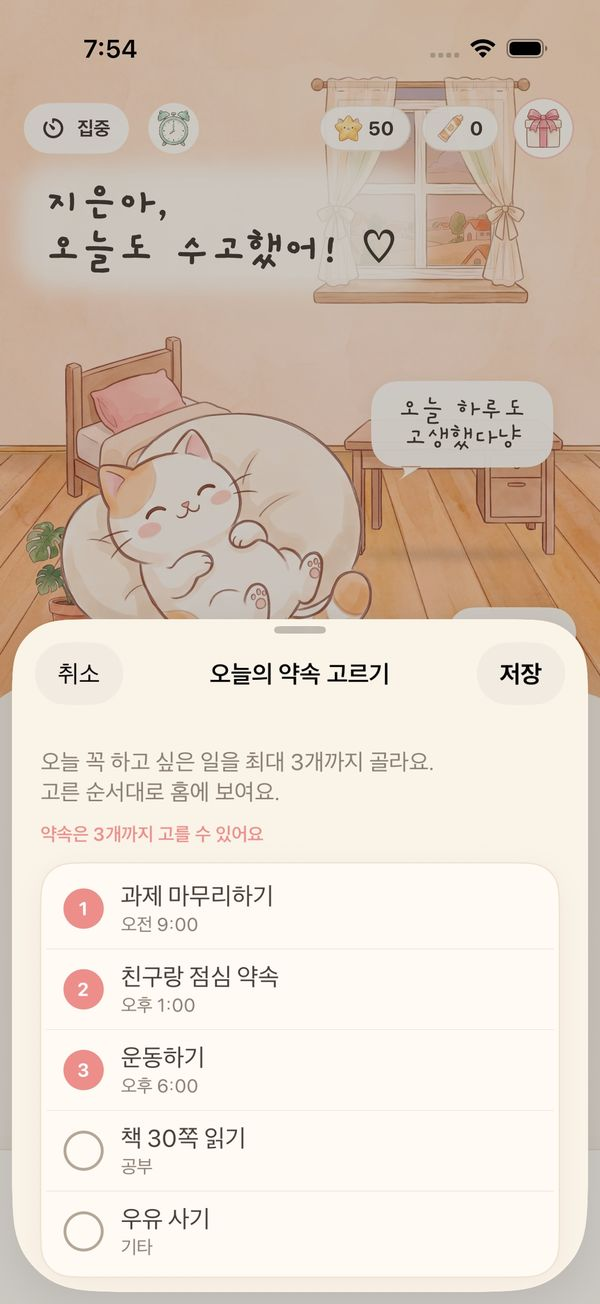
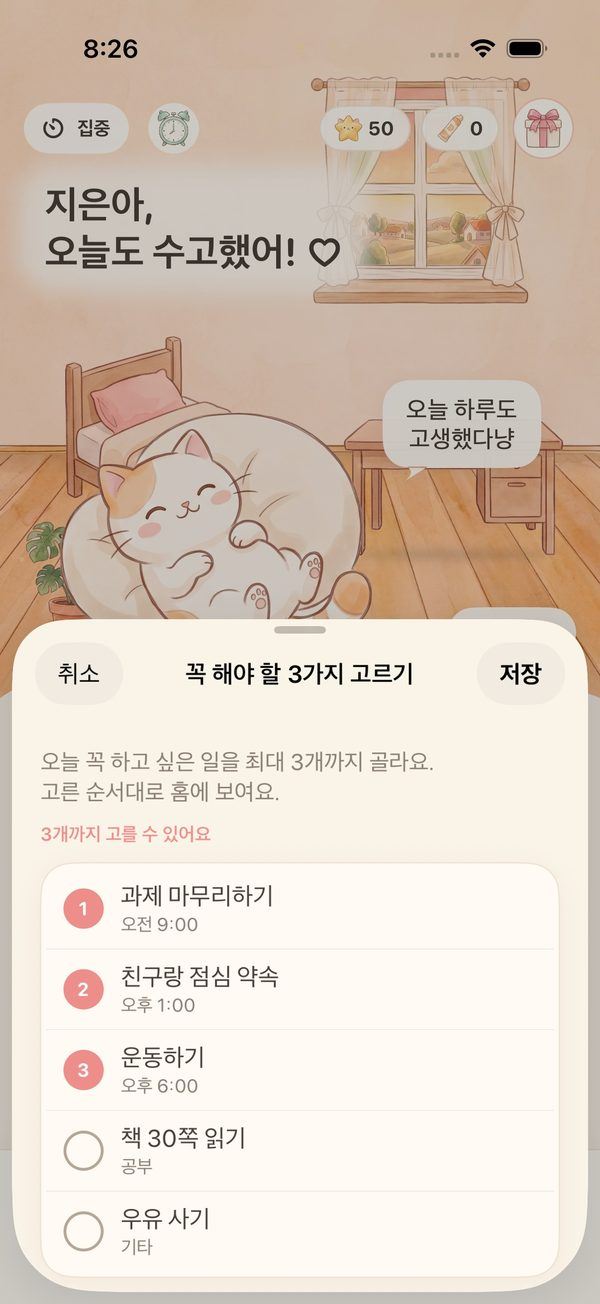
홈페이지: '오늘의 약속' → '꼭 해야 할 3가지', 고딕 서체(Noto Sans KR), 새 앱 화면·깔끔한 위젯 그림, 살아 움직이는 고양이 소개, 고객지원 FAQ(알람이 진동만 올 때·집중 소리)
Claude-Session: https://claude.ai/code/session_01QzebrivZ857hv6vvxdSKxr

diff --git a/index.html b/index.html
@@ -4,10 +4,10 @@
 <meta name="viewport" content="width=device-width, initial-scale=1, viewport-fit=cover">
 <title>틈냥</title>
 <meta name="claude:viewport-fit-sides" content="cover">
-<meta name="description" content="오늘 꼭 지킬 약속 세 가지를 고르면, 방 안의 고양이가 하루 내내 응원해요. 해낸 만큼 냥별이 쌓이고 방이 예뻐지는 일정 앱 틈냥.">
+<meta name="description" content="오늘 꼭 해야 할 3가지를 고르면, 방 안의 고양이가 하루 내내 응원해요. 해낸 만큼 냥별이 쌓이고 방이 예뻐지는 일정 앱 틈냥.">
 <link rel="preconnect" href="https://fonts.googleapis.com">
 <link rel="preconnect" href="https://fonts.gstatic.com" crossorigin>
-<link rel="stylesheet" href="https://fonts.googleapis.com/css2?family=Gaegu:wght@400;700&family=Gowun+Dodum&display=swap">
+<link rel="stylesheet" href="https://fonts.googleapis.com/css2?family=Noto+Sans+KR:wght@400;500;700;800&display=swap">
 <style>
 /* 레이아웃: 고양이 방의 하루(아침 → 낮 → 저녁 → 밤)를 따라 내려가는 세로 이야기. 시간대마다 띠의 빛깔이 바뀐다. */
 :root {
@@ -26,8 +26,8 @@
   --night-ink: #f6eedf;
   --night-soft: #c9c0dd;
   --shadow: rgba(140, 110, 85, 0.16);
-  --display: "Gaegu", "Nanum Pen Script", "Apple SD Gothic Neo", "Noto Sans KR", cursive;
-  --body: "Gowun Dodum", "Apple SD Gothic Neo", "Noto Sans KR", "Malgun Gothic", system-ui, sans-serif;
+  --display: "Noto Sans KR", "Apple SD Gothic Neo", "Malgun Gothic", system-ui, sans-serif;
+  --body: "Noto Sans KR", "Apple SD Gothic Neo", "Malgun Gothic", system-ui, sans-serif;
 }
 @media (prefers-color-scheme: dark) {
   :root:not([data-theme="light"]) {
@@ -80,7 +80,7 @@ a { color: inherit; }
   border-bottom: 1px solid var(--line);
 }
 .top .wrap { display: flex; align-items: center; justify-content: space-between; gap: 16px; padding-block: 10px; }
-.brand { display: flex; align-items: center; gap: 8px; font-family: var(--display); font-weight: 700; font-size: 30px; line-height: 1; text-decoration: none; }
+.brand { display: flex; align-items: center; gap: 8px; font-family: var(--display); font-weight: 800; font-size: 25px; letter-spacing: -0.02em; line-height: 1; text-decoration: none; }
 .brand img { width: 34px; height: 34px; object-fit: contain; }
 .top nav { display: flex; gap: 18px; font-size: 15px; color: var(--ink-soft); }
 .top nav a { text-decoration: none; }
@@ -92,8 +92,8 @@ a { color: inherit; }
 .hero .wrap { display: grid; grid-template-columns: minmax(0, 1.1fr) minmax(0, 0.9fr); gap: 40px; align-items: center; padding-block: 56px 72px; }
 @media (max-width: 820px) { .hero .wrap { grid-template-columns: 1fr; padding-block: 36px 56px; } }
 .eyebrow { font-size: 15px; letter-spacing: 0.04em; color: var(--ink-soft); margin: 0 0 10px; }
-h1, h2, h3 { font-family: var(--display); font-weight: 700; line-height: 1.15; text-wrap: balance; margin: 0; }
-h1 { font-size: clamp(44px, 7vw, 72px); }
+h1, h2, h3 { font-family: var(--display); font-weight: 700; letter-spacing: -0.02em; line-height: 1.25; text-wrap: balance; margin: 0; }
+h1 { font-size: clamp(34px, 5.6vw, 56px); font-weight: 800; }
 h1 .soft { color: var(--coral); }
 .lede { font-size: 18px; max-width: 34em; margin: 18px 0 26px; color: var(--ink); }
 .stores { display: flex; flex-wrap: wrap; gap: 12px; align-items: center; }
@@ -126,7 +126,7 @@ h1 .soft { color: var(--coral); }
 
 /* 하루 흐름 */
 .day-intro .wrap { padding-block: 56px 8px; display: grid; gap: 10px; }
-.day-intro h2 { font-size: clamp(34px, 5vw, 48px); }
+.day-intro h2 { font-size: clamp(27px, 4vw, 38px); }
 .day-intro p { margin: 0; color: var(--ink-soft); max-width: 36em; }
 
 .slot { --band: var(--noon); background: var(--band); }
@@ -147,12 +147,12 @@ h1 .soft { color: var(--coral); }
 }
 .slot.night .clock { background: rgba(255, 255, 255, 0.1); color: var(--night-ink); }
 .clock img { width: 20px; height: 20px; object-fit: contain; }
-.copy h3 { font-size: clamp(30px, 4.2vw, 42px); margin-bottom: 14px; }
+.copy h3 { font-size: clamp(23px, 3.3vw, 32px); margin-bottom: 14px; }
 .copy p { margin: 0 0 14px; max-width: 32em; }
 .slot.night .copy p { color: var(--night-soft); }
 .facts { list-style: none; padding: 0; margin: 18px 0 0; display: grid; gap: 10px; }
 .facts li { display: flex; gap: 10px; align-items: baseline; }
-.facts b { font-family: var(--display); font-size: 24px; line-height: 1; min-width: 3.2em; color: var(--coral); font-variant-numeric: tabular-nums; }
+.facts b { font-family: var(--display); font-weight: 800; font-size: 21px; line-height: 1; min-width: 3.2em; color: var(--coral); font-variant-numeric: tabular-nums; }
 .slot.night .facts b { color: #ffd27a; }
 .shot { justify-self: center; width: min(280px, 76vw); border-radius: 34px; padding: 8px; background: #2d2622; box-shadow: 0 24px 48px -18px var(--shadow); }
 .shot img { width: 100%; height: auto; border-radius: 27px; }
@@ -166,7 +166,7 @@ h1 .soft { color: var(--coral); }
 .widgets { background: linear-gradient(160deg, #6f7fb0 0%, #8f8cc0 45%, #c9a6c6 100%); color: #fff; }
 .widgets .wrap { padding-block: 64px; display: grid; grid-template-columns: minmax(0, 0.9fr) minmax(0, 1.1fr); gap: 36px; align-items: center; }
 @media (max-width: 820px) { .widgets .wrap { grid-template-columns: 1fr; } }
-.widgets h2 { font-size: clamp(32px, 4.6vw, 44px); margin-bottom: 14px; }
+.widgets h2 { font-size: clamp(25px, 3.7vw, 35px); margin-bottom: 14px; }
 .widgets .copy p { color: rgba(255, 255, 255, 0.92); max-width: 30em; margin: 0; }
 .widget-row { display: flex; flex-wrap: wrap; gap: 18px; justify-content: center; align-items: center; }
 /* 실제 위젯 화면(앱 단위 테스트가 그린 캡처) */
@@ -192,33 +192,33 @@ h1 .soft { color: var(--coral); }
 
 /* 테마 */
 .themes .wrap { padding-block: 72px 40px; display: grid; gap: 14px; }
-.themes h2 { font-size: clamp(32px, 4.6vw, 44px); }
+.themes h2 { font-size: clamp(25px, 3.7vw, 35px); }
 .themes .wrap > p { margin: 0 0 8px; color: var(--ink-soft); max-width: 40em; }
 .theme-grid { display: grid; grid-template-columns: repeat(3, minmax(0, 1fr)); gap: 16px; }
 @media (max-width: 760px) { .theme-grid { grid-template-columns: repeat(2, minmax(0, 1fr)); gap: 12px; } }
 .theme-grid figure { position: relative; margin: 0; background: var(--card); border: 1px solid var(--line); border-radius: 22px; padding: 8px; }
 .theme-grid img { width: 100%; height: auto; border-radius: 16px; aspect-ratio: 480 / 414; object-fit: cover; }
 .theme-grid figcaption { display: flex; justify-content: space-between; align-items: center; gap: 8px; padding: 8px 6px 2px; }
-.theme-grid figcaption b { font-family: var(--display); font-size: 22px; font-weight: 700; line-height: 1.1; }
+.theme-grid figcaption b { font-family: var(--display); font-size: 18px; font-weight: 700; line-height: 1.2; }
 .theme-grid figcaption span { font-size: 12px; font-weight: 700; padding: 2px 9px; border-radius: 999px; background: #6e5cc2; color: #fff; flex: none; }
 .theme-grid figure:first-child figcaption span { background: var(--sage); color: var(--ink); }
 /* 휴대폰: 칸이 좁아 이름 옆 표시가 들쭉날쭉 줄바꿈되므로, 표시는 그림 왼쪽 위에 얹고 이름만 한 줄로 */
 @media (max-width: 760px) {
   .theme-grid figcaption { display: block; padding: 8px 4px 2px; line-height: 1.15; text-wrap: balance; }
-  .theme-grid figcaption b { font-size: clamp(16px, 4.9vw, 19px); }
+  .theme-grid figcaption b { font-size: clamp(14px, 4.1vw, 16px); }
   .theme-grid figcaption span { position: absolute; top: 15px; left: 15px; font-size: 11px; box-shadow: 0 1px 6px rgba(40, 30, 20, 0.2); }
 }
 
 /* 고양이 */
 .cats .wrap { padding-block: 72px; display: grid; gap: 28px; }
-.cats h2, .plus h2, .faq h2 { font-size: clamp(34px, 5vw, 48px); }
+.cats h2, .plus h2, .faq h2 { font-size: clamp(27px, 4vw, 38px); }
 .cat-grid { display: grid; grid-template-columns: repeat(3, minmax(0, 1fr)); gap: 18px; }
 .cat {
   display: grid; grid-template-columns: 96px minmax(0, 1fr); gap: 14px; align-items: center;
   padding: 16px; border-radius: 24px; background: var(--card); border: 1px solid var(--line);
 }
 .cat img { width: 96px; height: 96px; object-fit: contain; }
-.cat h3 { font-size: 30px; }
+.cat h3 { font-size: 23px; }
 .cat p { margin: 2px 0 0; color: var(--ink-soft); font-size: 15px; }
 .cat .badge { display: inline-block; vertical-align: middle; font: 800 11px/1 system-ui, sans-serif; letter-spacing: .04em;
   color: #fff; background: #6e5cc2; border-radius: 999px; padding: 4px 7px; }
@@ -228,7 +228,7 @@ h1 .soft { color: var(--coral); }
   .cat-grid { grid-template-columns: repeat(3, minmax(0, 1fr)); gap: 10px; }
   .cat { grid-template-columns: 1fr; justify-items: center; align-content: start; text-align: center; gap: 4px; padding: 12px 6px; border-radius: 20px; }
   .cat img { width: 68px; height: 68px; }
-  .cat h3 { font-size: 22px; }
+  .cat h3 { font-size: 17px; }
   .cat p { font-size: 12px; line-height: 1.35; }
   .cat .badge { display: block; margin: 2px auto 0; width: max-content; }
 }
@@ -249,13 +249,13 @@ h1 .soft { color: var(--coral); }
 .faq details { border-bottom: 1px solid var(--line); padding-block: 14px; }
 .faq summary { cursor: pointer; font-size: 18px; list-style: none; display: flex; justify-content: space-between; gap: 16px; }
 .faq summary::-webkit-details-marker { display: none; }
-.faq summary::after { content: "+"; font-family: var(--display); font-size: 26px; line-height: 1; color: var(--coral); }
+.faq summary::after { content: "+"; font-family: var(--display); font-size: 24px; line-height: 1; color: var(--coral); }
 .faq details[open] summary::after { content: "−"; }
 .faq details p { margin: 10px 0 0; color: var(--ink-soft); }
 
 footer { border-top: 1px solid var(--line); }
 footer .wrap { padding-block: 28px 40px; display: flex; flex-wrap: wrap; justify-content: space-between; gap: 12px; color: var(--ink-soft); font-size: 14px; }
-footer .brand { font-size: 24px; color: var(--ink); }
+footer .brand { font-size: 21px; color: var(--ink); }
 footer .biz { flex-basis: 100%; margin: 0; font-size: 12.5px; line-height: 1.6; color: var(--ink-soft); }
 </style>
 
@@ -277,8 +277,8 @@ footer .biz { flex-basis: 100%; margin: 0; font-size: 12.5px; line-height: 1.6; 
     <div class="wrap">
       <div>
         <p class="eyebrow">고양이와 함께 쓰는 하루 계획 앱</p>
-        <h1>오늘의 약속 세 가지,<br><span class="soft">고양이랑</span> 같이 지켜요.</h1>
-        <p class="lede">할 일은 몇 개든 적어도 괜찮아요. 그중 꼭 지킬 세 가지만 고르면, 방 안의 고양이가 하루 내내 곁에서 응원해요. 해낼 때마다 냥별이 쌓이고, 고양이 방이 조금씩 예뻐져요.</p>
+        <h1>꼭 해야 할 3가지,<br><span class="soft">고양이랑</span> 같이 해요.</h1>
+        <p class="lede">할 일은 몇 개든 적어도 괜찮아요. 그중 꼭 해야 할 3가지만 고르면, 방 안의 고양이가 하루 내내 곁에서 응원해요. 숨 쉬고 그루밍하고, 톡 건드리면 애교도 부려요. 해낼 때마다 냥별이 쌓이고, 고양이 방이 조금씩 예뻐져요.</p>
         <div class="stores">
           <span class="store" role="note">
             <svg viewBox="0 0 24 24" aria-hidden="true"><path fill="currentColor" d="M16.4 12.6c0-2.3 1.9-3.4 2-3.5-1.1-1.6-2.8-1.8-3.4-1.8-1.4-.1-2.8.9-3.5.9-.7 0-1.9-.9-3.1-.8-1.6 0-3.1.9-3.9 2.4-1.7 2.9-.4 7.2 1.2 9.5.8 1.1 1.7 2.4 2.9 2.4 1.2 0 1.6-.8 3-.8s1.8.8 3 .7c1.3 0 2.1-1.1 2.8-2.3.9-1.3 1.3-2.6 1.3-2.7-.1 0-2.3-.9-2.3-3.9zM14.1 5.8c.6-.8 1.1-1.9 1-3-.9 0-2.1.6-2.8 1.4-.6.7-1.1 1.8-1 2.9 1.1.1 2.1-.5 2.8-1.3z"/></svg>
@@ -288,7 +288,7 @@ footer .biz { flex-basis: 100%; margin: 0; font-size: 12.5px; line-height: 1.6; 
         </div>
       </div>
       <div class="phone-stage">
-        <div class="phone"><img src="assets/screen_home.jpg" alt="틈냥 홈 화면: 저녁빛 방에서 쿠션에 기대 쉬는 고양이, '지은아, 오늘도 수고했어!' 인사말, 오늘의 약속 세 가지 목록" width="600" height="1304"></div>
+        <div class="phone"><img src="assets/screen_home.jpg" alt="틈냥 홈 화면: 저녁빛 방에서 쿠션에 기대 쉬는 고양이, '지은아, 오늘도 수고했어!' 인사말, 꼭 해야 할 3가지 목록" width="600" height="1304"></div>
         <img class="sticker wave" src="assets/cat_mochi_wave.png" alt="">
         <img class="sticker star" src="assets/icon_star.png" alt="">
         <img class="sticker churu" src="assets/icon_churu.png" alt="">
@@ -308,7 +308,7 @@ footer .biz { flex-basis: 100%; margin: 0; font-size: 12.5px; line-height: 1.6; 
       <div class="copy">
         <span class="clock"><img src="assets/icon_sun.png" alt="">오전 7:00 · 아침</span>
         <h3 id="t-alarm">고양이 알람이 아침을 깨워요</h3>
-        <p>평일 기상, 출근 준비처럼 요일마다 반복하는 알람을 만들어요. iOS 26부터는 무음·집중 모드에서도 시계 앱처럼 울리는 시스템 알람으로, 그 이전 버전에서는 알림으로 알려 드려요.</p>
+        <p>평일 기상, 출근 준비처럼 요일마다 반복하는 알람을 만들어요. iOS 26부터는 무음·집중 모드에서도 시계 앱처럼 울리는 시스템 알람으로, 그 이전 버전에서는 알림으로 알려 드리고, 놓치지 않게 1분 간격으로 네 번 더 알려요.</p>
         <p>오르골·방울·아침 햇살·별빛 알람음은 고르기 전에 미리 들어 볼 수 있어요. 울릴 때 '다시 알림'을 누르면 5·10·15분 뒤에 다시 깨워요(iOS 26 이상).</p>
       </div>
       <div class="shot"><img src="assets/screen_alarm.jpg" alt="알람 목록 화면: 오전 7시 기상, 8시 30분 출근 준비, 낮 12시 점심, 오후 6시 운동 알람과 켜기 스위치" width="600" height="1304" loading="lazy"></div>
@@ -319,11 +319,11 @@ footer .biz { flex-basis: 100%; margin: 0; font-size: 12.5px; line-height: 1.6; 
     <div class="wrap">
       <div class="copy">
         <span class="clock"><img src="assets/icon_sun.png" alt="">오전 8:10 · 아침</span>
-        <h3 id="t-morning">고양이가 인사하면, 약속 세 가지를 골라요</h3>
-        <p>오늘 적은 일정 가운데 꼭 지킬 세 가지를 고르면 홈 맨 위에 올라와요. 고르지 않은 날에는 시간 순서대로 알아서 추천해 두고, 첫 일을 끝내는 순간 그대로 확정해요.</p>
-        <p>이름을 부르는 인사말과 말풍선은 시간대마다 달라요. 고양이를 톡 건드리면 통통 튀며 반응해요.</p>
+        <h3 id="t-morning">고양이가 인사하면, 꼭 해야 할 3가지를 골라요</h3>
+        <p>오늘 적은 일정 가운데 꼭 해야 할 세 가지를 고르면 홈 맨 위에 올라와요. 고르지 않은 날에는 시간 순서대로 알아서 추천해 두고, 첫 일을 끝내는 순간 그대로 확정해요.</p>
+        <p>이름을 부르는 인사말과 말풍선은 시간대마다 달라요. 고양이를 톡 건드리면 애교를 부리고, 너무 자주 건드리면 깜짝 놀라 도망갔다가 슬그머니 돌아와요.</p>
       </div>
-      <div class="shot"><img src="assets/screen_promises.jpg" alt="오늘의 약속 고르기 화면: 일정 목록에서 최대 세 개를 순서대로 고르는 모습" width="600" height="1304" loading="lazy"></div>
+      <div class="shot"><img src="assets/screen_promises.jpg" alt="꼭 해야 할 3가지 고르기 화면: 일정 목록에서 최대 세 개를 순서대로 고르는 모습" width="600" height="1304" loading="lazy"></div>
     </div>
   </section>
 
@@ -359,11 +359,11 @@ footer .biz { flex-basis: 100%; margin: 0; font-size: 12.5px; line-height: 1.6; 
         <p>체크할 때마다 냥별이 들어와요. 같은 일을 껐다 다시 켜도 두 번 받지는 않아요. 하루 한 번 선물 상자에서는 고양이 간식 냠냠이를 받아요.</p>
         <ul class="facts">
           <li><b>+2</b><span>할 일 하나를 끝냈을 때</span></li>
-          <li><b>+3</b><span>오늘의 약속을 지켰을 때</span></li>
-          <li><b>+10</b><span>세 가지를 모두 지킨 날의 보너스</span></li>
+          <li><b>+3</b><span>꼭 해야 할 일을 해냈을 때</span></li>
+          <li><b>+10</b><span>세 가지를 모두 해낸 날의 보너스</span></li>
         </ul>
       </div>
-      <div class="shot"><img src="assets/screen_reward.jpg" alt="약속 하나를 끝내 냥별 3개를 받은 순간의 홈 화면" width="600" height="1304" loading="lazy"></div>
+      <div class="shot"><img src="assets/screen_reward.jpg" alt="꼭 해야 할 일 하나를 끝내 냥별 3개를 받은 순간의 홈 화면" width="600" height="1304" loading="lazy"></div>
     </div>
   </section>
 
@@ -373,7 +373,7 @@ footer .biz { flex-basis: 100%; margin: 0; font-size: 12.5px; line-height: 1.6; 
         <span class="clock"><img src="assets/icon_star.png" alt="">오후 9:00 · 저녁</span>
         <h3 id="t-room">모은 냥별로 고양이 방을 꾸며요</h3>
         <p>냥마을 상점에서 침대와 책상, 창문, 러그, 화분을 들여 방에 놓아요. 놓을 자리를 먼저 눌러도 되고, 마음에 안 들면 되돌리기 한 번이면 돼요.</p>
-        <p>고양이는 침대 위, 러그, 장난감 곁으로 자리를 옮겨 다녀요. 꾸민 방은 홈 화면 무대에도 그대로 보여요.</p>
+        <p>고양이는 꾸민 방을 스스로 돌아다녀요. 화분 냄새를 맡고, 밥그릇에서 냠냠, 장난감을 덮치고, 침대에 뛰어올라 낮잠을 자요. 꾸민 방은 홈 화면 무대에도 그대로 보여요.</p>
       </div>
       <div class="shot"><img src="assets/screen_room.jpg" alt="냥마을 방 꾸미기 화면: 창가와 침대, 책상이 놓인 방과 아래쪽 가구 고르기 목록" width="600" height="1304" loading="lazy"></div>
     </div>
@@ -395,18 +395,18 @@ footer .biz { flex-basis: 100%; margin: 0; font-size: 12.5px; line-height: 1.6; 
     <div class="wrap">
       <div class="copy">
         <h2 id="t-widgets">앱을 열지 않아도, 위젯에서 바로 체크</h2>
-        <p>홈 화면 위젯(작게·중간·크게)과 잠금 화면 위젯으로 오늘의 약속을 확인해요. 중간·큰 위젯에서는 동그라미를 눌러 바로 체크하고, 냥별은 앱을 열 때 규칙대로 한 번만 받아요.</p>
+        <p>홈 화면 위젯(작게·중간·크게)과 잠금 화면 위젯으로 꼭 해야 할 3가지를 확인해요. 중간·큰 위젯에서는 동그라미를 눌러 바로 체크하고, 냥별은 앱을 열 때 규칙대로 한 번만 받아요.</p>
       </div>
       <div class="widget-row">
         <img class="widget-shot widget-shot--medium" src="assets/widget_medium.webp" width="364" height="170" loading="lazy"
-             alt="중간 크기 홈 화면 위젯: 오늘의 약속 1/3, 고양이 모찌, 과제 마무리하기(완료)·친구랑 점심 약속 오후 1:00·운동하기 오후 6:00 체크 동그라미">
+             alt="중간 크기 홈 화면 위젯: 꼭 해야 할 3가지 1/3, 고양이 모찌, 과제 마무리하기(완료)·친구랑 점심 약속 오후 1:00·운동하기 오후 6:00 체크 동그라미">
         <img class="widget-shot widget-shot--small" src="assets/widget_small.webp" width="170" height="170" loading="lazy"
-             alt="작은 홈 화면 위젯: 오늘의 약속 1/3, 다음 약속 친구랑 점심 약속">
-        <div class="lock" role="img" aria-label="잠금 화면 위젯 예시: 오늘의 약속 1/3, 다음 약속 친구랑 점심 약속">
+             alt="작은 홈 화면 위젯: 꼭 해야 할 3가지 1/3, 다음 할 일 친구랑 점심 약속">
+        <div class="lock" role="img" aria-label="잠금 화면 위젯 예시: 꼭 해야 할 3가지 1/3, 다음 할 일 친구랑 점심 약속">
           <div class="lock-time">9:41</div>
           <div class="lock-widgets">
             <div class="lock-ring"><span>🐾</span><b>1/3</b></div>
-            <div class="lock-rect"><b>🐾 오늘의 약속 1/3</b><span>친구랑 점심 약속</span><small>오후 1:00</small></div>
+            <div class="lock-rect"><b>🐾 꼭 해야 할 3가지 1/3</b><span>친구랑 점심 약속</span><small>오후 1:00</small></div>
           </div>
         </div>
       </div>
@@ -467,11 +467,11 @@ footer .biz { flex-basis: 100%; margin: 0; font-size: 12.5px; line-height: 1.6; 
     <div class="wrap">
       <h2 id="t-faq">자주 묻는 질문</h2>
       <div>
-        <details open><summary>무료로 쓸 수 있나요?</summary><p>네. 일정과 오늘의 약속, 캘린더, 알람, 집중 타이머, 냥일기, 방 꾸미기, 위젯 같은 기본 기능은 무료예요. 추가 테마와 PLUS 고양이, 일부 가구·알람음은 PLUS에서 열려요.</p></details>
+        <details open><summary>무료로 쓸 수 있나요?</summary><p>네. 일정과 꼭 해야 할 3가지, 캘린더, 알람, 집중 타이머, 냥일기, 방 꾸미기, 위젯 같은 기본 기능은 무료예요. 추가 테마와 PLUS 고양이, 일부 가구·알람음은 PLUS에서 열려요.</p></details>
         <details><summary>광고가 나오나요?</summary><p>화면을 가리는 광고는 없어요. 냠냠이가 더 필요할 때 원하면 짧은 영상을 보고 받는 기능을 준비하고 있어요. PLUS에서는 광고가 나오지 않아요.</p></details>
         <details><summary>내 일정은 어디에 저장되나요?</summary><p>내 휴대폰 안에 저장돼서 인터넷이 없어도 쓸 수 있어요. 휴대폰을 바꿀 때는 마이 → 기록 백업에서 파일로 내보내고, 새 휴대폰에서 가져오면 돼요.</p></details>
         <details><summary>알람은 무음 모드에서도 울리나요?</summary><p>iOS 26 이상에서는 시스템 알람으로 예약해 무음·집중 모드에서도 울려요. 그보다 낮은 버전에서는 알림으로 알려 드리고, 알람 화면에 그 사실을 안내해요.</p></details>
-        <details><summary>위젯이 있나요?</summary><p>네. 홈 화면에 작게·중간·크게, 잠금 화면에 동그라미·네모·한 줄 위젯이 있어요. 위젯에서 체크한 약속은 앱을 열 때 냥별과 함께 반영돼요.</p></details>
+        <details><summary>위젯이 있나요?</summary><p>네. 홈 화면에 작게·중간·크게, 잠금 화면에 동그라미·네모·한 줄 위젯이 있어요. 위젯에서 체크한 일은 앱을 열 때 냥별과 함께 반영돼요.</p></details>
         <details><summary>친구와 일정을 나눌 수 있나요?</summary><p>친구와 일정을 나누는 기능과, 친구를 초대하면 둘 다 고양이 간식을 받는 초대 선물을 준비하고 있어요.</p></details>
         <details><summary>안드로이드에서도 쓸 수 있나요?</summary><p>아이폰 버전을 먼저 출시하고, 안드로이드 버전은 그다음에 준비해요.</p></details>
       </div>

diff --git a/support.html b/support.html
@@ -6,7 +6,7 @@
 <title>틈냥 고객지원</title>
 <link rel="preconnect" href="https://fonts.googleapis.com">
 <link rel="preconnect" href="https://fonts.gstatic.com" crossorigin>
-<link rel="stylesheet" href="https://fonts.googleapis.com/css2?family=Gaegu:wght@400;700&family=Gowun+Dodum&display=swap">
+<link rel="stylesheet" href="https://fonts.googleapis.com/css2?family=Noto+Sans+KR:wght@400;500;700;800&display=swap">
 <link rel="stylesheet" href="legal.css">
 </head>
 <body>
@@ -31,13 +31,15 @@
     <h3>알림이 울리지 않아요.</h3>
     <p>iPhone 설정 › 알림 › 틈냥에서 알림 허용을 켜 주세요. 집중 모드나 방해 금지 모드가 켜져 있으면 알림이 조용히 표시될 수 있어요. 일정에 시간이 정해져 있어야 알림을 쓸 수 있어요.</p>
     <h3>휴대폰을 바꾸면 기록이 옮겨지나요?</h3>
-    <p>틈냥은 기록을 기기 안에만 저장해요. 바꾸기 전에 앱의 ‘데이터 내보내기’로 백업 파일을 만들고, 새 기기에서 ‘가져오기’로 불러와 주세요. iCloud 기기 백업으로 옮긴 경우에도 함께 옮겨져요.</p>
+    <p>틈냥은 기록을 기기 안에만 저장해요. 바꾸기 전에 마이 › 기록 백업에서 백업 파일을 만들고, 새 기기에서 같은 곳의 ‘가져오기’로 불러와 주세요. iCloud 기기 백업으로 옮긴 경우에도 함께 옮겨져요.</p>
     <h3>PLUS를 결제했는데 적용되지 않아요.</h3>
     <p>마이 › 틈냥 PLUS에서 ‘구매 복원’을 눌러 주세요. 같은 Apple 계정으로 로그인되어 있어야 해요. 환불은 Apple 고객지원(reportaproblem.apple.com)에서 신청할 수 있어요.</p>
     <h3>냥별을 더 받고 싶어요.</h3>
-    <p>일정을 완료하면 2개, 오늘의 약속은 3개, 약속 세 개를 모두 지키면 10개를 더 드려요(하루 한도가 있어요). 집중 타이머를 끝까지 마쳐도 5분마다 1개를 받아요.</p>
+    <p>일정을 완료하면 2개, 꼭 해야 할 3가지는 하나에 3개, 세 가지를 모두 해내면 10개를 더 드려요(하루 한도가 있어요). 집중 타이머를 끝까지 마쳐도 5분마다 1개를 받아요.</p>
     <h3>집중 타이머 소리가 안 들려요.</h3>
-    <p>무음 스위치가 켜져 있으면 장면 소리도 들리지 않아요. 기본 장면은 조용한 장면이라 소리가 없고, 빗소리·카페·숲속·캠프파이어에서 오른쪽 위 스피커 버튼으로 켜고 끌 수 있어요.</p>
+    <p>기본 장면은 조용한 장면이라 소리가 없어요. 빗소리·카페·숲속·캠프파이어에서 오른쪽 위 스피커 버튼으로 켜고 끌 수 있고, 직접 켠 소리는 무음 스위치를 켜 둬도 들려요. 기기 음량도 확인해 주세요.</p>
+    <h3>알람이 소리 없이 진동만 와요.</h3>
+    <p>iOS 26 이상에서는 시스템 알람으로 울려서 무음 모드에서도 소리가 나요. 처음 알람을 만들 때 묻는 ‘알람’ 권한을 허용해 주세요(iPhone 설정의 틈냥 항목에서도 바꿀 수 있어요). iOS 26보다 낮은 버전이거나 알람 권한을 허용하지 않으면 알림으로 울리는데, 이때는 무음 모드에서 진동만 올 수 있어요. 놓치지 않게 1분 간격으로 네 번 더 알려 드려요.</p>
   </div>
 </main>
 <footer><div class="wrap">상호 로직파트너스 · 대표 손지훈 · 사업자등록번호 321-42-01060 · 통신판매업 신고 2022-서울강남-01190호 · 서울특별시 강남구 언주로134길 6 · 문의 <a href="mailto:ainam0727@gmail.com">ainam0727@gmail.com</a><br>© 2026 로직파트너스</div></footer>

diff --git a/support-en.html b/support-en.html
@@ -6,7 +6,7 @@
 <title>Teumnyang Support</title>
 <link rel="preconnect" href="https://fonts.googleapis.com">
 <link rel="preconnect" href="https://fonts.gstatic.com" crossorigin>
-<link rel="stylesheet" href="https://fonts.googleapis.com/css2?family=Gaegu:wght@400;700&family=Gowun+Dodum&display=swap">
+<link rel="stylesheet" href="https://fonts.googleapis.com/css2?family=Noto+Sans+KR:wght@400;500;700;800&display=swap">
 <link rel="stylesheet" href="legal.css">
 </head>
 <body>
@@ -35,9 +35,11 @@
     <h3>I bought PLUS, but it isn't working.</h3>
     <p>Tap “Restore purchases” in Me › Teumnyang PLUS. You need to be signed in with the same Apple Account. You can request a refund from Apple at reportaproblem.apple.com.</p>
     <h3>How do I get more Nyang Stars?</h3>
-    <p>You get 2 for completing a plan, 3 for a promise, and 10 more for keeping all three of today's promises (there's a daily limit). Finishing a focus session also gives you 1 star for every 5 minutes.</p>
+    <p>You get 2 for completing a plan, 3 for each of your Top 3, and 10 more for finishing all three (there's a daily limit). Finishing a focus session also gives you 1 star for every 5 minutes.</p>
     <h3>I can't hear the focus timer sounds.</h3>
-    <p>If your iPhone is in Silent mode, scene sounds don't play either. The default scene is a quiet one with no sound; in Rain, Café, Forest and Campfire, tap the speaker button at the top right to turn the sound on or off.</p>
+    <p>The default scene is a quiet one with no sound. In Rain, Café, Forest and Campfire, tap the speaker button at the top right to turn the sound on or off. Sounds you turn on play even in Silent mode. Please check your volume too.</p>
+    <h3>My alarm only vibrates, with no sound.</h3>
+    <p>On iOS 26 or later, alarms ring as system alarms with sound even in Silent mode. Allow the Alarms permission when you create your first alarm (you can also change it in the Teumnyang section of iPhone Settings). Below iOS 26, or if the permission is off, alarms ring as notifications, which may only vibrate in Silent mode. To make sure you don't miss them, Teumnyang reminds you 4 more times, a minute apart.</p>
   </div>
 </main>
 <footer><div class="wrap">LogicPartners (로직파트너스) · Representative Jihun Son · Business registration no. 321-42-01060 · Mail-order business registration no. 2022-서울강남-01190 · 6, Eonju-ro 134-gil, Gangnam-gu, Seoul, Republic of Korea · Contact <a href="mailto:ainam0727@gmail.com">ainam0727@gmail.com</a><br>© 2026 LogicPartners</div></footer>

diff --git a/legal.css b/legal.css
@@ -6,8 +6,8 @@
   --ink-soft: #85786c;
   --navy: #5b6a8e;
   --todo: #fff1b8;
-  --display: "Gaegu", "Nanum Pen Script", "Apple SD Gothic Neo", "Noto Sans KR", cursive;
-  --body: "Gowun Dodum", "Apple SD Gothic Neo", "Noto Sans KR", "Malgun Gothic", system-ui, sans-serif;
+  --display: "Noto Sans KR", "Apple SD Gothic Neo", "Malgun Gothic", system-ui, sans-serif;
+  --body: "Noto Sans KR", "Apple SD Gothic Neo", "Malgun Gothic", system-ui, sans-serif;
 }
 @media (prefers-color-scheme: dark) {
   :root:not([data-theme="light"]) {
@@ -33,12 +33,12 @@ header.top {
   background: var(--card);
 }
 header.top .wrap { display: flex; align-items: center; justify-content: space-between; gap: 12px; min-height: 60px; }
-.brand { font-family: var(--display); font-size: 30px; font-weight: 700; color: var(--ink); text-decoration: none; }
+.brand { font-family: var(--display); font-size: 25px; font-weight: 800; letter-spacing: -0.02em; color: var(--ink); text-decoration: none; }
 nav.legal-nav { display: flex; gap: 14px; flex-wrap: wrap; font-size: 14px; }
 nav.legal-nav a { color: var(--ink-soft); text-decoration: none; padding: 10px 2px; }
 nav.legal-nav a[aria-current="page"] { color: var(--navy); font-weight: 700; }
 main { padding: 32px 0 56px; }
-h1 { font-family: var(--display); font-size: 40px; line-height: 1.2; margin: 0 0 6px; }
+h1 { font-family: var(--display); font-size: 32px; font-weight: 800; letter-spacing: -0.02em; line-height: 1.25; margin: 0 0 6px; }
 .updated { color: var(--ink-soft); font-size: 14px; margin: 0 0 24px; }
 h2 { font-size: 19px; margin: 34px 0 8px; padding-top: 8px; border-top: 1px dashed var(--line); }
 h3 { font-size: 16px; margin: 18px 0 4px; }

diff --git a/privacy.html b/privacy.html
@@ -6,7 +6,7 @@
 <title>틈냥 개인정보처리방침</title>
 <link rel="preconnect" href="https://fonts.googleapis.com">
 <link rel="preconnect" href="https://fonts.gstatic.com" crossorigin>
-<link rel="stylesheet" href="https://fonts.googleapis.com/css2?family=Gaegu:wght@400;700&family=Gowun+Dodum&display=swap">
+<link rel="stylesheet" href="https://fonts.googleapis.com/css2?family=Noto+Sans+KR:wght@400;500;700;800&display=swap">
 <link rel="stylesheet" href="legal.css">
 </head>
 <body>

diff --git a/privacy-en.html b/privacy-en.html
@@ -6,7 +6,7 @@
 <title>Teumnyang Privacy Policy</title>
 <link rel="preconnect" href="https://fonts.googleapis.com">
 <link rel="preconnect" href="https://fonts.gstatic.com" crossorigin>
-<link rel="stylesheet" href="https://fonts.googleapis.com/css2?family=Gaegu:wght@400;700&family=Gowun+Dodum&display=swap">
+<link rel="stylesheet" href="https://fonts.googleapis.com/css2?family=Noto+Sans+KR:wght@400;500;700;800&display=swap">
 <link rel="stylesheet" href="legal.css">
 </head>
 <body>

diff --git a/terms-en.html b/terms-en.html
@@ -6,7 +6,7 @@
 <title>Teumnyang Terms of Use</title>
 <link rel="preconnect" href="https://fonts.googleapis.com">
 <link rel="preconnect" href="https://fonts.gstatic.com" crossorigin>
-<link rel="stylesheet" href="https://fonts.googleapis.com/css2?family=Gaegu:wght@400;700&family=Gowun+Dodum&display=swap">
+<link rel="stylesheet" href="https://fonts.googleapis.com/css2?family=Noto+Sans+KR:wght@400;500;700;800&display=swap">
 <link rel="stylesheet" href="legal.css">
 </head>
 <body>

diff --git a/terms.html b/terms.html
@@ -6,7 +6,7 @@
 <title>틈냥 이용약관</title>
 <link rel="preconnect" href="https://fonts.googleapis.com">
 <link rel="preconnect" href="https://fonts.gstatic.com" crossorigin>
-<link rel="stylesheet" href="https://fonts.googleapis.com/css2?family=Gaegu:wght@400;700&family=Gowun+Dodum&display=swap">
+<link rel="stylesheet" href="https://fonts.googleapis.com/css2?family=Noto+Sans+KR:wght@400;500;700;800&display=swap">
 <link rel="stylesheet" href="legal.css">
 </head>
 <body>
